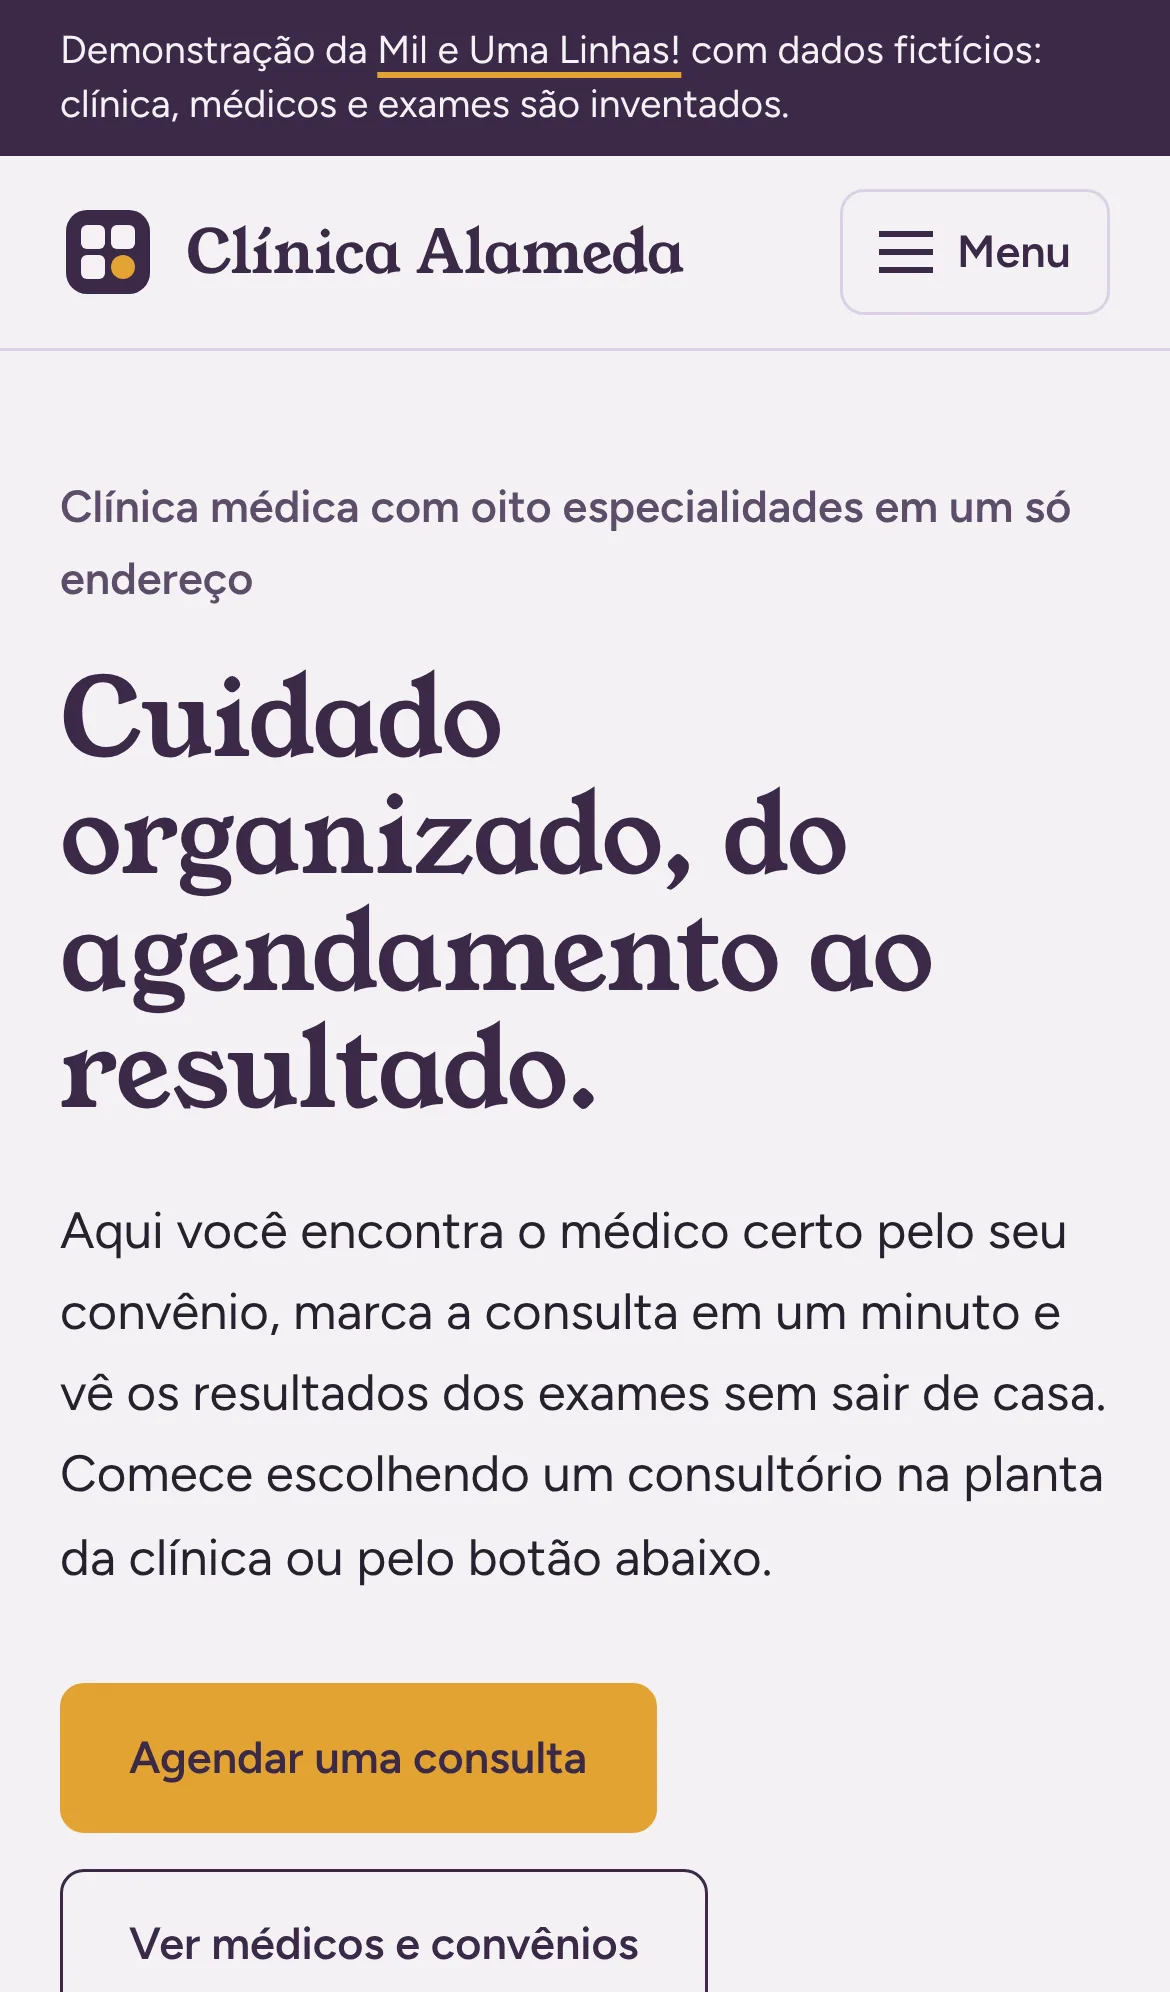
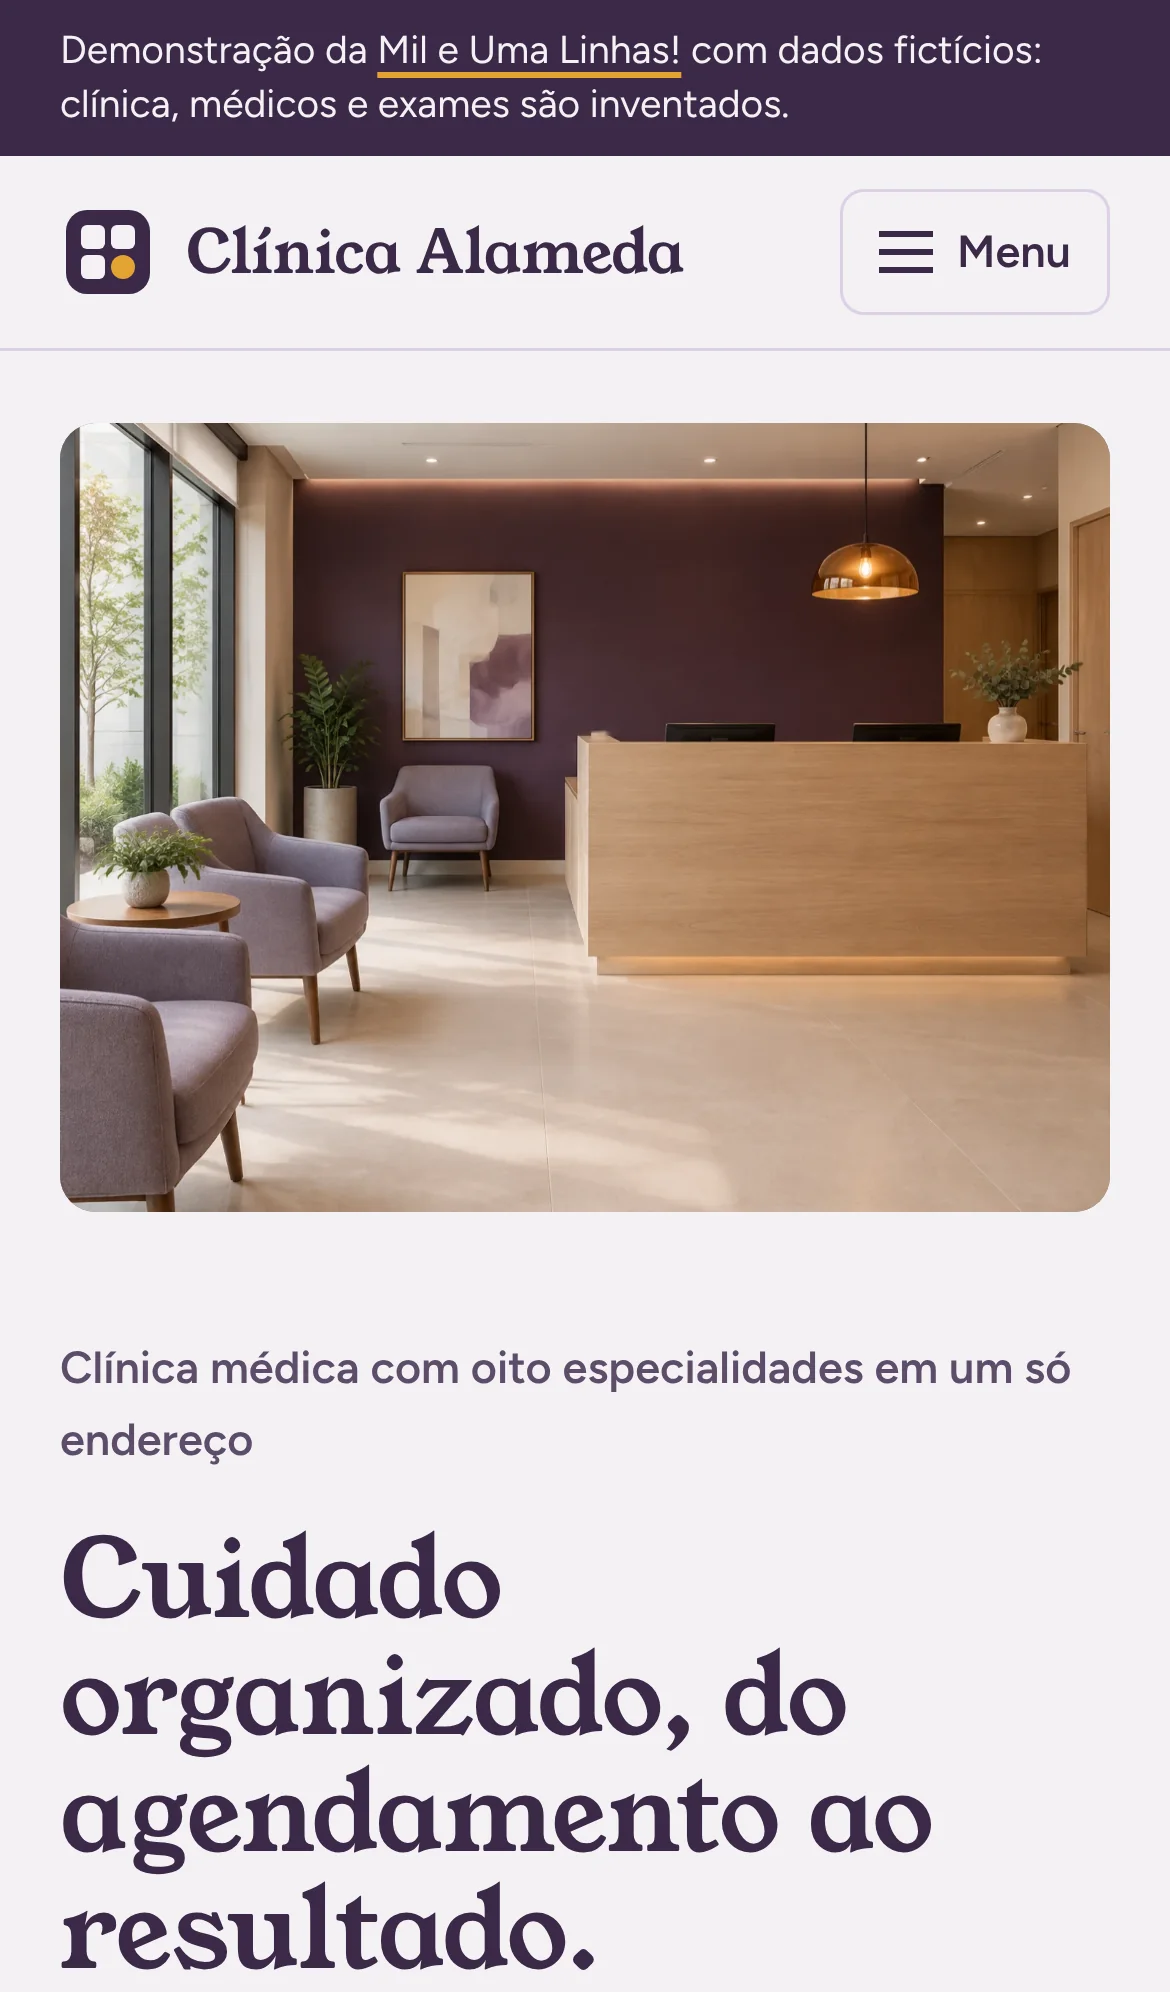
Troca o hero desenhado por foto gerada por IA
Substitui a planta baixa em SVG do hero por uma foto da recepção de uma
clínica com parede cor de ameixa e pendente âmbar (img/hero.webp,
1440x1080, gerada por IA no Canva e ilustrativa). O texto do hero não
mudou.

- index.html: img.hero-foto com width/height, alt descritivo e
  fetchpriority=high dentro de um contêiner 4:3; CSP mantida. A planta
  interativa foi mantida, não apagada: passou para o topo da seção
  "Especialidades e médicos", acima da busca que ela filtra.
- css/estilo.css: contêiner com aspect-ratio 4/3, object-fit cover,
  cantos de 12 px e cor média da foto como fundo enquanto carrega; no
  celular a foto abre a página e o texto vem logo abaixo; a animação das
  salas acendendo foi trocada por um fade da foto (desligado com
  reduced-motion).
- js/app.js: removidas as duas linhas que acendiam a planta na abertura;
  o clique nas salas segue filtrando a busca.
- tests/site.cjs: confere que a foto carregou, tem alt, 4:3, cabe na tela
  e que nenhum texto do hero fica por cima dela.
- docs/identidade.md e README.md: descrevem a foto, o aviso de que é
  gerada por IA, o prompt resumido e a nova posição da planta.
- docs/capa-desktop.webp, docs/capa-celular.webp e
  docs/celular-planta.webp refeitas.

Claude-Session: https://claude.ai/code/session_015DVsuVad392kn1wvAjF541

diff --git a/css/estilo.css b/css/estilo.css
@@ -183,7 +183,20 @@ img, svg { max-width: 100%; height: auto; display: block; }
   .hero-grade { grid-template-columns: 5fr 6fr; gap: 64px; }
 }
 
-.planta-figura { margin: 0; }
+.hero-foto-caixa {
+  aspect-ratio: 4 / 3;
+  border-radius: var(--raio);
+  overflow: hidden;
+  background: #937968; /* média da foto: aparece enquanto ela carrega */
+}
+.hero-foto { display: block; width: 100%; height: 100%; object-fit: cover; }
+@media (max-width: 1023px) {
+  .hero { padding-top: 24px; }
+  .hero-foto-caixa { order: -1; } /* no celular a foto abre a página, o texto vem logo abaixo */
+}
+
+/* Planta interativa (na seção de especialidades) */
+.planta-figura { margin: 0 0 40px; max-width: 680px; }
 .planta-figura figcaption { font-size: 0.875rem; color: var(--ameixa-clara); margin-top: 12px; }
 .planta { width: 100%; height: auto; }
 .planta-parede { fill: var(--branco); stroke: var(--ameixa); stroke-width: 3; }
@@ -204,24 +217,12 @@ a.planta-sala:hover rect:first-child, a.planta-sala:focus-visible rect:first-chi
 a.planta-sala:focus-visible { box-shadow: none; }
 a.planta-sala.esta-ativa rect:first-child { fill: var(--ambar-fundo); stroke: var(--ambar); stroke-width: 2.5; }
 
-/* Abertura orquestrada: salas acendem em sequência */
+/* Abertura orquestrada: a foto do hero aparece com um fade */
 @media (prefers-reduced-motion: no-preference) {
-  .planta.vai-acender .planta-sala { opacity: 0; transform: scale(0.96); transform-origin: center; transform-box: fill-box; }
-  .planta.acendendo .planta-sala { animation: acender 420ms ease-out forwards; }
-  .planta.acendendo .planta-sala[data-ordem="1"] { animation-delay: 60ms; }
-  .planta.acendendo .planta-sala[data-ordem="2"] { animation-delay: 120ms; }
-  .planta.acendendo .planta-sala[data-ordem="3"] { animation-delay: 180ms; }
-  .planta.acendendo .planta-sala[data-ordem="4"] { animation-delay: 240ms; }
-  .planta.acendendo .planta-sala[data-ordem="5"] { animation-delay: 300ms; }
-  .planta.acendendo .planta-sala[data-ordem="6"] { animation-delay: 360ms; }
-  .planta.acendendo .planta-sala[data-ordem="7"] { animation-delay: 420ms; }
-  .planta.acendendo .planta-sala[data-ordem="8"] { animation-delay: 480ms; }
-  .planta.acendendo .planta-sala[data-ordem="9"] { animation-delay: 540ms; }
-  .planta.acendendo .planta-voce { animation: pulsar 900ms ease-in-out 700ms 2; transform-origin: center; transform-box: fill-box; }
+  .hero-foto { animation: foto-entra 900ms ease-out both; }
   .medicos li, .confirmacao { animation: surgir 150ms ease-out; }
 }
-@keyframes acender { to { opacity: 1; transform: none; } }
-@keyframes pulsar { 0%, 100% { transform: scale(1); } 50% { transform: scale(1.5); } }
+@keyframes foto-entra { from { opacity: 0; } to { opacity: 1; } }
 @keyframes surgir { from { opacity: 0; } to { opacity: 1; } }
 
 /* Seções */

diff --git a/index.html b/index.html
@@ -65,6 +65,20 @@
           </dl>
         </div>
 
+        <div class="hero-foto-caixa">
+          <img class="hero-foto" src="img/hero.webp" width="1440" height="1080" alt="Recepção de uma clínica com parede cor de ameixa, balcão de madeira clara com dois monitores, poltronas lilás com pés de madeira, plantas, um quadro abstrato, um pendente âmbar aceso e uma janela grande com árvores do lado de fora." fetchpriority="high">
+        </div>
+      </div>
+    </section>
+
+    <!-- BUSCA -->
+    <section class="secao" id="especialidades" aria-labelledby="busca-titulo">
+      <div class="miolo">
+        <div class="secao-cabeca">
+          <h2 id="busca-titulo">Especialidades e médicos</h2>
+          <p>Esta é a lista de quem atende aqui. Digite um nome ou escolha a especialidade e o seu convênio para ver só quem serve para você.</p>
+        </div>
+
         <figure class="planta-figura">
           <svg class="planta" viewBox="0 0 640 440" role="group" aria-labelledby="planta-titulo" aria-describedby="planta-desc" id="planta">
             <title id="planta-titulo">Planta da Clínica Alameda</title>
@@ -102,16 +116,6 @@
           </svg>
           <figcaption>Planta da clínica. Toque em um consultório para ver os médicos daquela especialidade.</figcaption>
         </figure>
-      </div>
-    </section>
-
-    <!-- BUSCA -->
-    <section class="secao" id="especialidades" aria-labelledby="busca-titulo">
-      <div class="miolo">
-        <div class="secao-cabeca">
-          <h2 id="busca-titulo">Especialidades e médicos</h2>
-          <p>Esta é a lista de quem atende aqui. Digite um nome ou escolha a especialidade e o seu convênio para ver só quem serve para você.</p>
-        </div>
 
         <form class="busca" id="busca" role="search" aria-label="Buscar médicos">
           <div class="busca-linha">

diff --git a/js/app.js b/js/app.js
@@ -88,11 +88,9 @@
     });
   })();
 
-  /* ---------- planta (hero) ---------- */
+  /* ---------- planta (seção de especialidades) ---------- */
   var planta = $("#planta");
   if (planta) {
-    planta.classList.add("vai-acender");
-    window.requestAnimationFrame(function () { planta.classList.add("acendendo"); });
     $$("a.planta-sala", planta).forEach(function (sala) {
       sala.addEventListener("click", function () {
         var esp = sala.getAttribute("data-esp");

diff --git a/docs/identidade.md b/docs/identidade.md
@@ -8,7 +8,7 @@ Estudo curto feito antes de qualquer linha de código. Tudo aqui é fictício: a
 
 Frase de posicionamento: **"Cuidado organizado, do agendamento ao resultado."**
 
-A ideia que guia tudo: uma clínica que acolhe sem ser melosa e organiza sem ser fria. A "alameda" é uma rua arborizada, calma, onde se sabe exatamente onde fica cada coisa. Por isso o elemento central do site é a **planta da clínica**: cada sala é uma especialidade, e o visitante entende a casa antes de entrar.
+A ideia que guia tudo: uma clínica que acolhe sem ser melosa e organiza sem ser fria. A "alameda" é uma rua arborizada, calma, onde se sabe exatamente onde fica cada coisa. Por isso o elemento central do site é a **planta da clínica**: cada sala é uma especialidade, e o visitante entende a casa antes de entrar. A planta fica na seção "Especialidades e médicos", logo acima da busca; a abertura é uma foto.
 
 ## Paleta
 
@@ -62,15 +62,27 @@ Regra de peso: títulos nunca são negrito (a Young Serif só tem um peso, e iss
 
 ## Imagem forte
 
-A imagem do hero é uma **planta baixa da clínica em SVG**, desenhada à mão em código. Cada sala tem o nome da especialidade; a recepção tem um ponto âmbar ("você está aqui"). As salas são botões: clicar em uma leva à busca já filtrada por aquela especialidade. A planta também reaparece pequena no rodapé do mapa de como chegar, fechando o ciclo.
+O hero é uma **foto gerada por IA (Canva)**, ilustrativa: a recepção de uma clínica, com uma parede cor de ameixa, um balcão de madeira clara com dois monitores, poltronas lilás com pés de madeira, plantas, um quadro abstrato em tons de lilás, um pendente âmbar aceso e uma janela grande com árvores ("alameda") do lado de fora. As cores da foto são as da paleta (Ameixa, Lavanda, Âmbar), então ela parece parte da marca. Não há pessoas.
 
-Nada de foto de banco de imagem, nada de pessoa, nada de estetoscópio. A organização é a imagem.
+O contêiner tem proporção fixa de 4:3 e cantos de 12 px, como os cartões do site, sem sombra. Enquanto a foto carrega, ele mostra a cor média dela.
+
+A **planta baixa em SVG** (cada sala é uma especialidade; a recepção tem um ponto âmbar "você está aqui"; clicar em uma sala leva à busca já filtrada) deixou o hero e passou para o topo da seção "Especialidades e médicos", onde continua funcionando do mesmo jeito. Ela reaparece pequena no mapa de como chegar. A animação em que as salas acendiam em sequência foi retirada, porque a planta não fica mais na primeira tela.
+
+Nada de foto de banco de imagem, nada de pessoa, nada de estetoscópio.
+
+### Foto do hero
+
+- **Arquivo**: `img/hero.webp`, 1440 x 1080 px, proporção 4:3.
+- **Origem**: gerada por IA no Canva. O README e este estudo avisam que é ilustrativa.
+- **Prompt resumido**: "Recepção de uma clínica médica moderna e acolhedora: parede ao fundo na cor ameixa, balcão de recepção de carvalho claro com fita de luz âmbar na base, dois monitores, poltronas lilás-acinzentado com pés de madeira, vasos com plantas, quadro abstrato em tons de lilás e bege, pendente de vidro âmbar aceso, grande janela com árvores lá fora, piso claro com luz de fim de tarde. Estilo editorial de site premium, sem texto, sem pessoas, proporção 4:3."
+- **Texto alternativo**: descreve a recepção, o balcão, as poltronas, as plantas, o quadro, o pendente e a janela.
+- **Texto do hero**: fica ao lado da foto no computador e abaixo dela no celular, nunca por cima. O contraste do texto é o da página (Ameixa e Tinta sobre Névoa) e não depende da foto.
 
 ## Movimento
 
-- Um só momento orquestrado na abertura: as salas da planta "acendem" em sequência (opacidade e leve escala, 60ms de intervalo entre elas), e o ponto âmbar da recepção pulsa duas vezes e para.
+- Um só momento orquestrado na abertura: a foto do hero aparece com um fade de 900ms.
 - Respostas a ações: sala em foco/hover ganha borda Ameixa; horário selecionado vira âmbar; resultados de busca aparecem com fade de 150ms.
-- Com `prefers-reduced-motion: reduce`, nenhuma animação roda: a planta já aparece pronta e as transições viram instantâneas.
+- Com `prefers-reduced-motion: reduce`, nenhuma animação roda: a foto já aparece pronta e as transições viram instantâneas.
 
 ## O que evitamos de propósito
 
